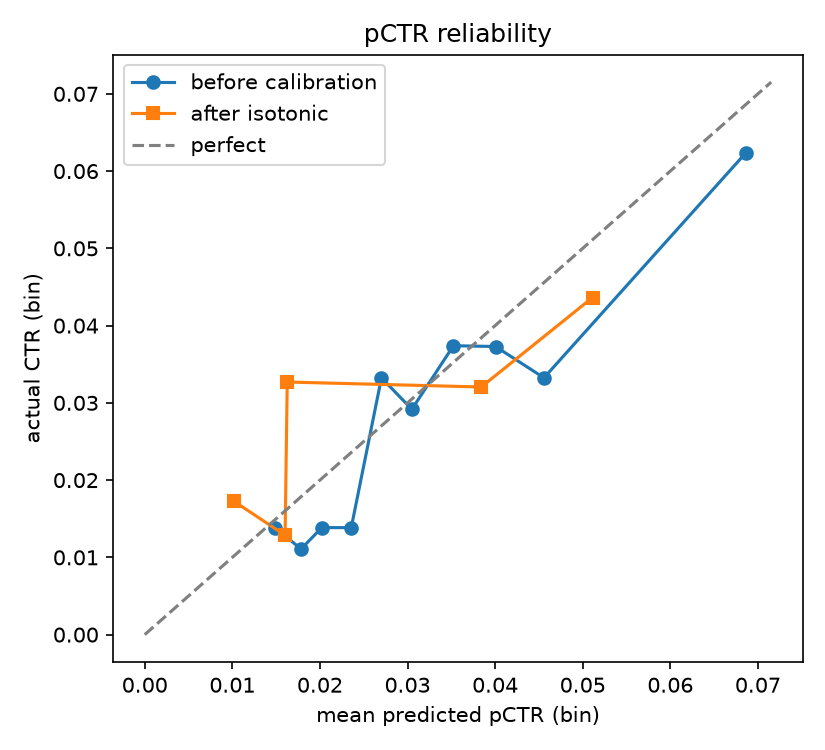
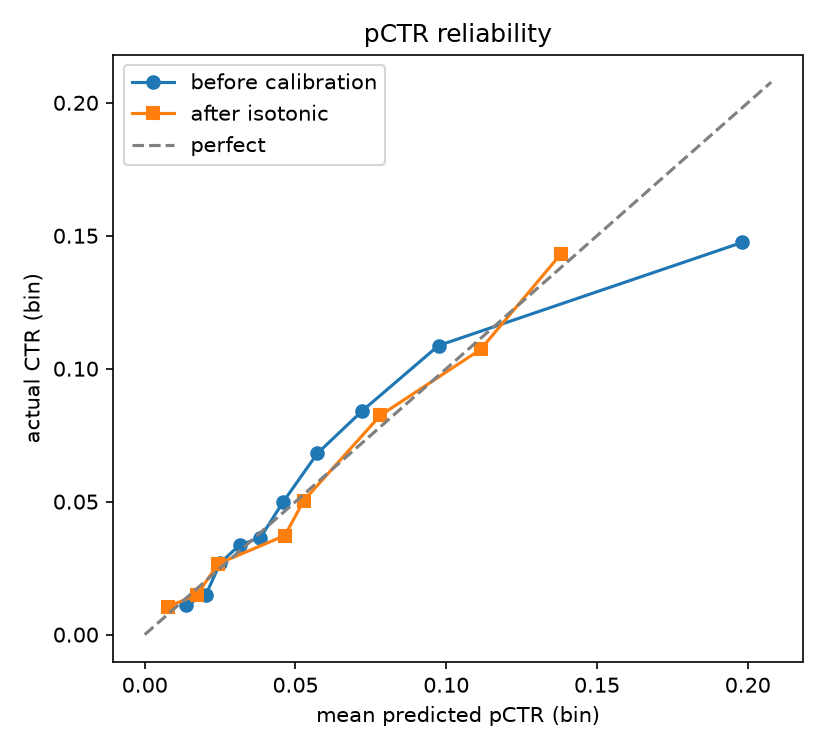
Stage 5: experiments platform, Thompson exploration, retrain loop
Deterministic md5 hash bucketing assigns each user an arm; /experiment
reads out per-arm CTR/revenue with a two-proportion z-test, filtered to
the experiment window (first readout absorbed pre-experiment traffic —
fixed with a start-time filter). 10% of requests give their last slot
to a Thompson-sampled ad (Beta posteriors per ad), tagged +explore so
exploration never contaminates arm readouts, priced at reserve.
adrank.retrain re-fits pCTR + two-tower on accumulated logs and
hot-swaps the server via /admin/reload-models.

Clean A/B: auction arm -1.5pts CTR (z=-3.67, p=0.0002), +43% rev/1k.
Post-retrain: two-tower recall@25 0.25 -> 0.53, calib AUC 0.63 -> 0.70
— the self-improving loop, demonstrated.

diff --git a/adrank/ranker.py b/adrank/ranker.py
@@ -191,11 +191,41 @@ POLICIES = {"random-v0": serve_random, "pctr-v1": serve_pctr,
 ACTIVE_POLICY = "auction-v3"
 
 
-def serve(session: Session, page_category: str, user_id: int):
-    """Returns (ads, prices, version). Pre-auction policies charge the full
-    bid on click (first-price billing) — kept that way on purpose so the
-    revenue comparison between naive billing and GSP stays visible."""
-    policy = POLICIES[ACTIVE_POLICY]
+EXPLORE_RATE = 0.10          # fraction of requests whose last slot explores
+_TS_CACHE = {"ts": 0.0, "stats": None}
+
+
+def _thompson_pick(session: Session, page_category: str, exclude: set[int]):
+    """Thompson sampling over per-ad Beta(clicks+1, imps-clicks+1) posteriors.
+    Keeps training data honest: without exploration the model only ever
+    learns about ads it already likes, and new ads starve."""
+    import time as _time
+
+    import numpy as np
+    from sqlmodel import func, select as _select
+
+    from .models import Event
+
+    now = _time.time()
+    if _TS_CACHE["stats"] is None or now - _TS_CACHE["ts"] > 60:
+        imps = dict(session.exec(_select(Event.ad_id, func.count()).where(
+            Event.event_type == "impression").group_by(Event.ad_id)).all())
+        clicks = dict(session.exec(_select(Event.ad_id, func.count()).where(
+            Event.event_type == "click").group_by(Event.ad_id)).all())
+        _TS_CACHE.update(ts=now, stats=(imps, clicks))
+    imps, clicks = _TS_CACHE["stats"]
+
+    pool = [ad for ad in eligible_ads(session, page_category) if ad.id not in exclude]
+    if not pool:
+        return None
+    samples = [np.random.beta(clicks.get(ad.id, 0) + 1,
+                              max(imps.get(ad.id, 0) - clicks.get(ad.id, 0), 0) + 1)
+               for ad in pool]
+    return pool[int(np.argmax(samples))]
+
+
+def _base_serve(session: Session, page_category: str, user_id: int, policy_name: str):
+    policy = POLICIES[policy_name]
     if policy is serve_auction:
         return policy(session, page_category, user_id)
     if policy is serve_random:
@@ -203,3 +233,29 @@ def serve(session: Session, page_category: str, user_id: int):
     else:
         ads, v = policy(session, page_category, user_id)
     return ads, [ad.bid for ad in ads], v
+
+
+def serve(session: Session, page_category: str, user_id: int):
+    """Returns (ads, prices, tags) — one served_by tag PER SLOT.
+
+    Order of operations: (1) experiment bucketing picks the policy arm,
+    (2) the policy fills the slots, (3) with probability EXPLORE_RATE the
+    last slot is replaced by a Thompson-sampled eligible ad, tagged
+    "<policy>+explore" so exploration traffic never contaminates arm
+    readouts. Explore clicks are charged the reserve price — the slot was
+    not auctioned."""
+    import random as _random
+
+    from .auction import RESERVE_PRICE
+    from .experiment import EXPERIMENT, assign
+
+    policy_name = (EXPERIMENT["arms"][assign(user_id)]
+                   if EXPERIMENT["enabled"] else ACTIVE_POLICY)
+    ads, prices, version = _base_serve(session, page_category, user_id, policy_name)
+    tags = [version] * len(ads)
+
+    if ads and _random.random() < EXPLORE_RATE:
+        pick = _thompson_pick(session, page_category, exclude={a.id for a in ads})
+        if pick is not None:
+            ads[-1], prices[-1], tags[-1] = pick, RESERVE_PRICE, f"{version}+explore"
+    return ads, prices, tags

diff --git a/adrank/experiment.py b/adrank/experiment.py
@@ -1,0 +1,77 @@
+"""Stage 5: the experiments platform in miniature.
+
+Assignment: deterministic hash bucketing — md5(experiment_name:user_id) mod 2.
+Same user, same arm, every request, no storage; changing the experiment name
+reshuffles everyone (a new experiment must not inherit the last one's split).
+
+Readout: per-arm CTR and revenue with a two-proportion z-test. Exploration
+impressions (served_by suffix "+explore") are excluded from arm readouts —
+they're policy-independent by construction.
+"""
+import hashlib
+import math
+
+from sqlmodel import Session, func, select
+
+from .models import Event
+
+EXPERIMENT = {
+    "name": "auction-vs-pctr-1",
+    "enabled": True,
+    "arms": {"A": "pctr-v1", "B": "auction-v3"},
+    # Readout window starts when the experiment was turned on. Without this,
+    # arm counts absorb historical traffic from when a single policy served
+    # EVERYONE (found the hard way: the first readout mixed stage-2/4 traffic
+    # into both arms).
+    "start": "2026-07-09T18:01:03.635138+00:00",
+}
+
+
+def assign(user_id: int, name: str | None = None) -> str:
+    name = name or EXPERIMENT["name"]
+    h = hashlib.md5(f"{name}:{user_id}".encode()).hexdigest()
+    return "A" if int(h, 16) % 2 == 0 else "B"
+
+
+def _arm_counts(s: Session, policy: str) -> tuple[int, int, float]:
+    from datetime import datetime
+    start = datetime.fromisoformat(EXPERIMENT["start"])
+    imps = s.exec(select(func.count()).where(
+        Event.event_type == "impression", Event.served_by == policy,
+        Event.ts >= start)).one()
+    clicks = s.exec(select(func.count()).where(
+        Event.event_type == "click", Event.served_by == policy,
+        Event.ts >= start)).one()
+    rev = s.exec(select(func.sum(Event.price_paid)).where(
+        Event.event_type == "click", Event.served_by == policy,
+        Event.ts >= start)).one() or 0.0
+    return imps, clicks, rev
+
+
+def readout(s: Session) -> dict:
+    arms = {}
+    for arm, policy in EXPERIMENT["arms"].items():
+        n, c, rev = _arm_counts(s, policy)
+        arms[arm] = {
+            "policy": policy, "impressions": n, "clicks": c,
+            "ctr": round(c / n, 4) if n else 0.0,
+            "revenue": round(rev, 2),
+            "rev_per_1k_imps": round(1000 * rev / n, 2) if n else 0.0,
+        }
+
+    a, b = arms["A"], arms["B"]
+    result = {"experiment": EXPERIMENT["name"], "enabled": EXPERIMENT["enabled"],
+              "arms": arms}
+    if a["impressions"] and b["impressions"]:
+        p1, n1 = a["ctr"], a["impressions"]
+        p2, n2 = b["ctr"], b["impressions"]
+        pooled = (a["clicks"] + b["clicks"]) / (n1 + n2)
+        se = math.sqrt(pooled * (1 - pooled) * (1 / n1 + 1 / n2))
+        z = (p2 - p1) / se if se else 0.0
+        p_value = math.erfc(abs(z) / math.sqrt(2))   # two-sided
+        result["ctr_test"] = {
+            "delta": round(p2 - p1, 4), "z": round(z, 3),
+            "p_value": round(p_value, 4),
+            "significant_at_05": p_value < 0.05,
+        }
+    return result

diff --git a/adrank/server.py b/adrank/server.py
@@ -45,17 +45,17 @@ def serve_ads(user_id: int, page_category: str):
     with get_session() as s:
         if not s.get(SimUser, user_id):
             raise HTTPException(404, "unknown user")
-        ads, prices, version = serve(s, page_category, user_id)
+        ads, prices, tags = serve(s, page_category, user_id)
         for pos, ad in enumerate(ads):
             s.add(Event(event_type="impression", user_id=user_id, ad_id=ad.id,
-                        position=pos, page_category=page_category, served_by=version))
+                        position=pos, page_category=page_category, served_by=tags[pos]))
         s.commit()
         return {
-            "served_by": version,
+            "served_by": tags[0] if tags else "none",
             "ads": [
                 {"ad_id": ad.id, "position": pos, "advertiser": ad.advertiser,
                  "headline": ad.headline, "category": ad.category,
-                 "price": prices[pos]}
+                 "price": prices[pos], "served_by": tags[pos]}
                 for pos, ad in enumerate(ads)
             ],
         }
@@ -119,6 +119,25 @@ def auction_page(request: Request):
         users = s.exec(select(SimUser).limit(30)).all()
     return templates.TemplateResponse(
         request, "auction.html", {"users": users, "categories": CATEGORIES})
+
+
+@app.get("/experiment")
+def experiment_readout():
+    from .experiment import readout
+    with get_session() as s:
+        return readout(s)
+
+
+@app.post("/admin/reload-models")
+def reload_models():
+    """Hot-swap: clear model caches so the next request loads fresh artifacts.
+    Called by the retrain loop after it rewrites models/."""
+    from . import ranker
+    ranker._PCTR_MODEL = None
+    ranker._PCTR_AGGS = None
+    ranker._TT = None
+    ranker._TS_CACHE["stats"] = None
+    return {"reloaded": True}
 
 
 @app.get("/stats")

diff --git a/adrank/retrain.py b/adrank/retrain.py
@@ -1,0 +1,29 @@
+"""Stage 5: the retrain loop — the system improves from its own logs.
+
+Re-fits pCTR (champion selection + calibration) and the two-tower on all
+accumulated events, rewrites models/, then hot-swaps the running server.
+Schedule it (cron/launchd) nightly, or run by hand:
+
+  uv run python -m adrank.retrain
+"""
+import httpx
+
+from . import pctr, twotower
+
+
+def main(base_url: str = "http://127.0.0.1:8100") -> None:
+    print("=== retraining pCTR ===")
+    pctr.main()
+    print("\n=== retraining two-tower ===")
+    twotower.main()
+    try:
+        r = httpx.post(f"{base_url}/admin/reload-models", timeout=10)
+        r.raise_for_status()
+        print(f"\nserver hot-swapped: {r.json()}")
+    except httpx.HTTPError as e:
+        print(f"\nserver not reachable ({e}) — models on disk are fresh; "
+              "they load on next server start.")
+
+
+if __name__ == "__main__":
+    main()

diff --git a/adrank/simulator.py b/adrank/simulator.py
@@ -64,7 +64,7 @@ def run(base_url: str, n_sessions: int, pages_per_session: int = 3) -> None:
                         http.post("/event", json={
                             "user_id": user.id, "ad_id": ad.id,
                             "position": slot["position"], "page_category": page,
-                            "served_by": payload["served_by"],
+                            "served_by": slot.get("served_by", payload["served_by"]),
                             "price": slot.get("price"),
                         }).raise_for_status()
             if (i + 1) % 100 == 0:

diff --git a/README.md b/README.md
@@ -46,7 +46,7 @@ on the public Avazu dataset (~40M real ad impressions).
 - [x] Stage 2 — pCTR model (champion selection: LR vs GBDT) + isotonic calibration
 - [x] Stage 3 — two-tower retrieval (PyTorch, in-batch negatives + logQ correction, numpy serving export)
 - [x] Stage 4 — GSP auction (ad_rank = bid x pCTR, second-price with reserve) + auction debug panel at /auction
-- [ ] Stage 5 — experiments platform (bucketed A/B), Thompson exploration, nightly retrain loop
+- [x] Stage 5 — experiments platform (hash-bucketed A/B + z-test), Thompson exploration slots, retrain + hot-swap loop
 
 ## Results so far
 
@@ -71,6 +71,19 @@ charges second prices instead of full bids. CTR-optimal is not
 revenue-optimal; the auction is where that tension is priced. The /auction
 panel shows any request's full board (bid, pCTR, ad_rank, price paid) and a
 calibration toggle that demonstrates how a hot model misprices clicks.
+
+Experiment (clean window, 13.5k impressions, /experiment): pctr-v1 arm CTR
+6.73% at $42.62/1k vs auction-v3 arm CTR 5.21% at $61.12/1k — the CTR drop is
+statistically significant (z=-3.67, p=0.0002) and buys +43% revenue. Lab
+note: the first readout silently absorbed pre-experiment traffic into both
+arms; arm counts now filter on the experiment start time.
+
+The flywheel: after the traffic above, `adrank.retrain` re-fit everything on
+its own logs and hot-swapped the server. Two-tower recall@25 went 0.25 ->
+0.53 (now well past popularity's 0.36) and pCTR calibration AUC 0.63 -> 0.70
+— the system measurably improves itself from data it generated. Thompson
+exploration slots (~8% of impressions at ~1.3% CTR) are the tax that keeps
+training data honest.
 
 ## Run it
 
